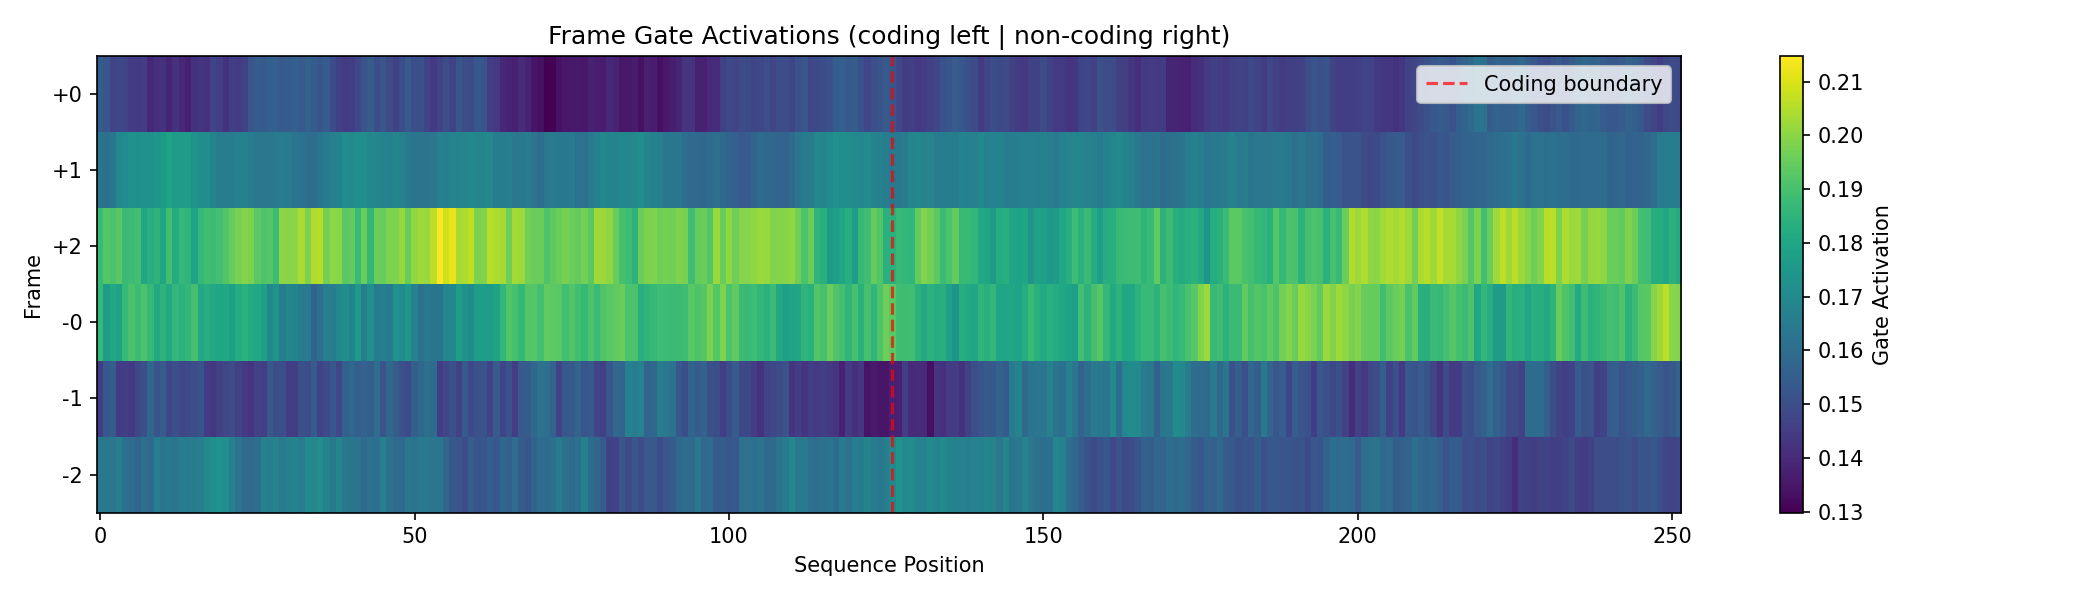
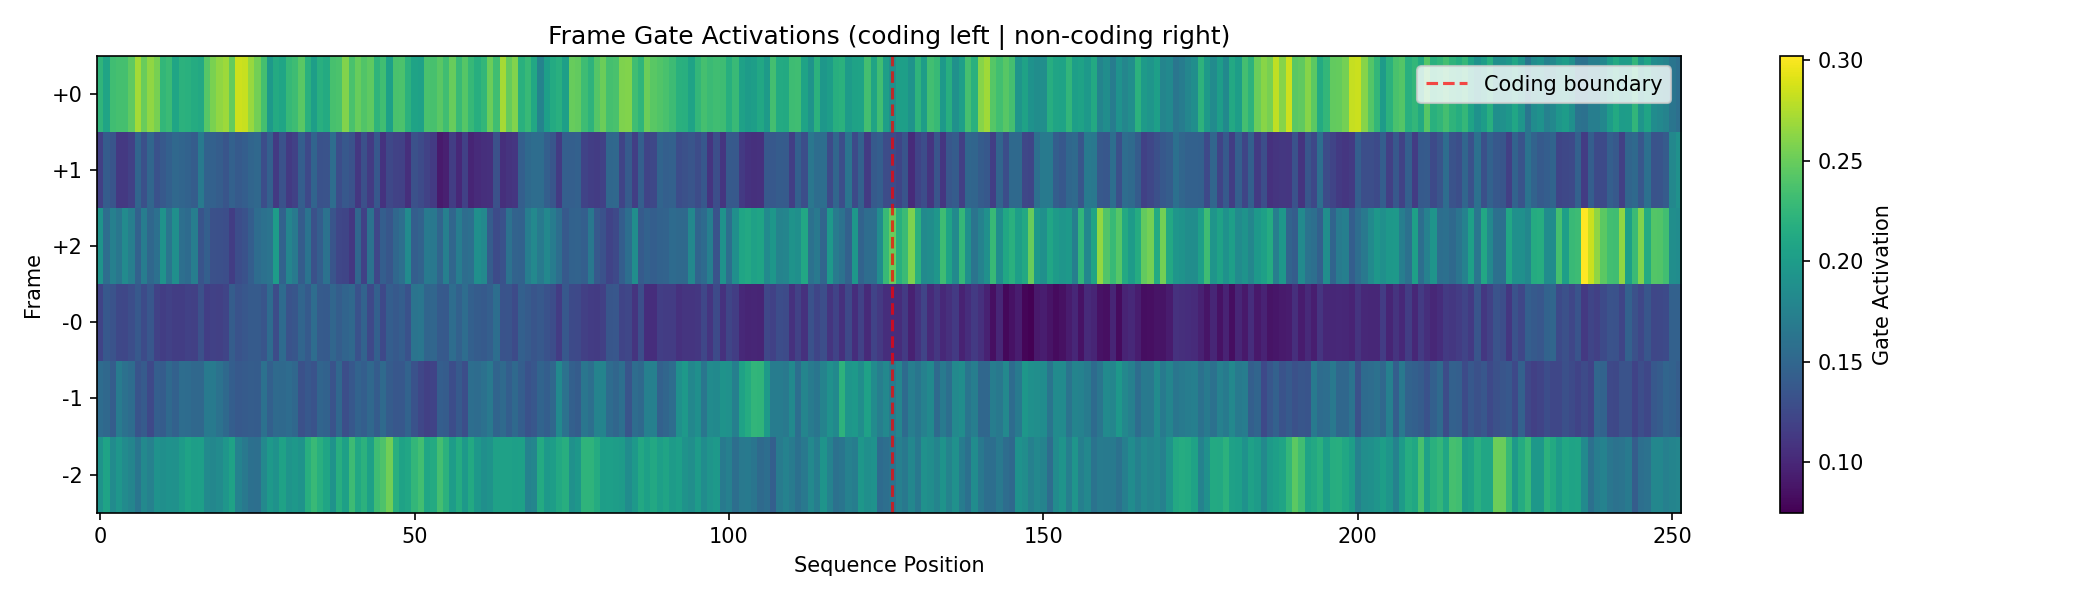
Regional entropy weighting + strand role asymmetry
Two features inspired by information theory papers:

1. Regional entropy weighting: computes local Shannon entropy
   per position (sliding window, default 31nt) and upweights
   information-dense regions in the loss. Uses vectorized 1D
   convolution over one-hot encoded nucleotides. Stacks
   multiplicatively with per-codon wobble weights.

2. Strand role asymmetry: separate learned residual projections
   for forward and RC strands before fusion. Captures that the
   coding strand (promoters, Shine-Dalgarno) and template strand
   (RNA polymerase binding) have different biological roles despite
   carrying the same information (Gielis's "zero entropy" principle).

Results on E. coli (10 epochs):
- 21/23 validation checks pass (was 19/23)
- Frame gate dominance: 20/20 trials (was 0/20)
- Perplexity: 2.66 (was 3.08)
- MLM accuracy: 34.9% (was 32.4%)
- Validation loss: 0.98 (was 1.11)
- Chargaff: |A-T|=0.94%, |C-G|=1.7% (near-perfect)

diff --git a/src/rosetta/model.py b/src/rosetta/model.py
@@ -527,6 +527,14 @@ class RosettaTransformer(nn.Module):
             TransformerLayer(config) for _ in range(n_standard)
         ])
 
+        # --- Strand role asymmetry (Gielis: same info, different roles) ---
+        # Coding strand carries promoter signals, Shine-Dalgarno sequences;
+        # template strand is read by RNA polymerase. Residual projections
+        # let each strand develop role-specific features before fusion.
+        if config.use_strand_asymmetry:
+            self.fwd_strand_proj = nn.Linear(config.d_model, config.d_model)
+            self.rc_strand_proj = nn.Linear(config.d_model, config.d_model)
+
         # --- Strand fusion (merge forward + RC representations) ---
         self.strand_fusion = nn.Sequential(
             nn.Linear(config.d_model * 2, config.d_model),
@@ -634,8 +642,12 @@ class RosettaTransformer(nn.Module):
                 x_fwd = layer(x_fwd, mask=attention_mask)
                 x_rc = layer(x_rc, mask=rc_mask)
 
+        # Strand role asymmetry: apply strand-specific projections (residual)
+        if self.config.use_strand_asymmetry:
+            x_fwd = x_fwd + self.fwd_strand_proj(x_fwd)
+            x_rc = x_rc + self.rc_strand_proj(x_rc)
+
         # Fuse forward and reverse complement representations
-        # This is where both "endiannesses" merge into a unified representation
         x = self.strand_fusion(torch.cat([x_fwd, x_rc.flip(dims=[1])], dim=-1))
 
         # Standard transformer layers for deeper processing
@@ -769,6 +781,56 @@ class RosettaTransformer(nn.Module):
 
         return frame_weights
 
+    def _compute_entropy_weights(
+        self,
+        input_ids: torch.Tensor,
+        labels: torch.Tensor,
+    ) -> torch.Tensor:
+        """
+        Compute per-position entropy weights from local nucleotide distribution.
+
+        High-entropy regions (diverse coding/regulatory) get higher weight.
+        Low-entropy regions (repeats, poly-A) get lower weight.
+        Vectorized: uses 1D unfold for sliding window histogram.
+
+        Returns:
+            (batch, seq_len) weights in [entropy_min_weight, 1.0]
+        """
+        batch_size, seq_len = input_ids.shape
+        device = input_ids.device
+        window = self.config.entropy_window
+        half_w = window // 2
+
+        # Reconstruct original sequence
+        original = input_ids.clone()
+        known = labels != -100
+        original[known] = labels[known]
+        safe_seq = original.clamp(0, 3)  # clamp special tokens to valid nucleotides
+
+        # One-hot encode: (batch, seq_len, 4)
+        one_hot = F.one_hot(safe_seq.long(), num_classes=4).float()
+
+        # Sliding window sum via 1D convolution
+        # Reshape to (batch, 4, seq_len) for conv1d
+        one_hot_t = one_hot.permute(0, 2, 1)  # (batch, 4, seq_len)
+        kernel = torch.ones(4, 1, window, device=device) / window
+        # Grouped conv: each of 4 channels independently
+        freqs = F.conv1d(one_hot_t, kernel, padding=half_w, groups=4)  # (batch, 4, seq_len)
+
+        # Shannon entropy: H = -sum(p * log(p))
+        freqs = freqs.clamp(min=1e-8)
+        entropy = -(freqs * freqs.log()).sum(dim=1)  # (batch, seq_len)
+
+        # Normalize to [0, 1] (max entropy = log(4) ≈ 1.386)
+        max_entropy = math.log(4)
+        entropy_norm = entropy / max_entropy
+
+        # Apply floor and scale to [min_weight, 1.0]
+        min_w = self.config.entropy_min_weight
+        weights = min_w + (1.0 - min_w) * entropy_norm
+
+        return weights
+
     def _compute_wobble_aware_loss(
         self,
         logits: torch.Tensor,
@@ -806,6 +868,11 @@ class RosettaTransformer(nn.Module):
                 codon_pos = (positions - frame_offset) % 3
                 pos_weights = w[codon_pos]
                 frame_weights += frame_probs[:, :, frame_offset] * pos_weights.unsqueeze(0)
+
+        # Regional entropy weighting: upweight information-dense regions
+        if self.config.use_entropy_weighting:
+            entropy_weights = self._compute_entropy_weights(input_ids, labels)
+            frame_weights = frame_weights * entropy_weights
 
         # Per-position cross-entropy
         loss_per_position = F.cross_entropy(

diff --git a/src/rosetta/config.py b/src/rosetta/config.py
@@ -61,3 +61,14 @@ class RosettaConfig:
     #              but carries secondary regulatory info)
     wobble_weights: list[float] = field(default_factory=lambda: [1.0, 1.0, 0.5])  # fallback
     use_codon_weights: bool = True  # per-codon degeneracy weights (overrides wobble_weights)
+
+    # --- Regional Entropy Weighting ---
+    # Upweight information-dense regions (coding, regulatory), downweight repeats
+    use_entropy_weighting: bool = True
+    entropy_window: int = 31         # local window for entropy computation (odd number)
+    entropy_min_weight: float = 0.3  # floor to avoid suppressing any region to zero
+
+    # --- Strand Role Asymmetry ---
+    # Allow learned differences between template and coding strands
+    # (Gielis: both strands carry same info, but have different biological roles)
+    use_strand_asymmetry: bool = True
